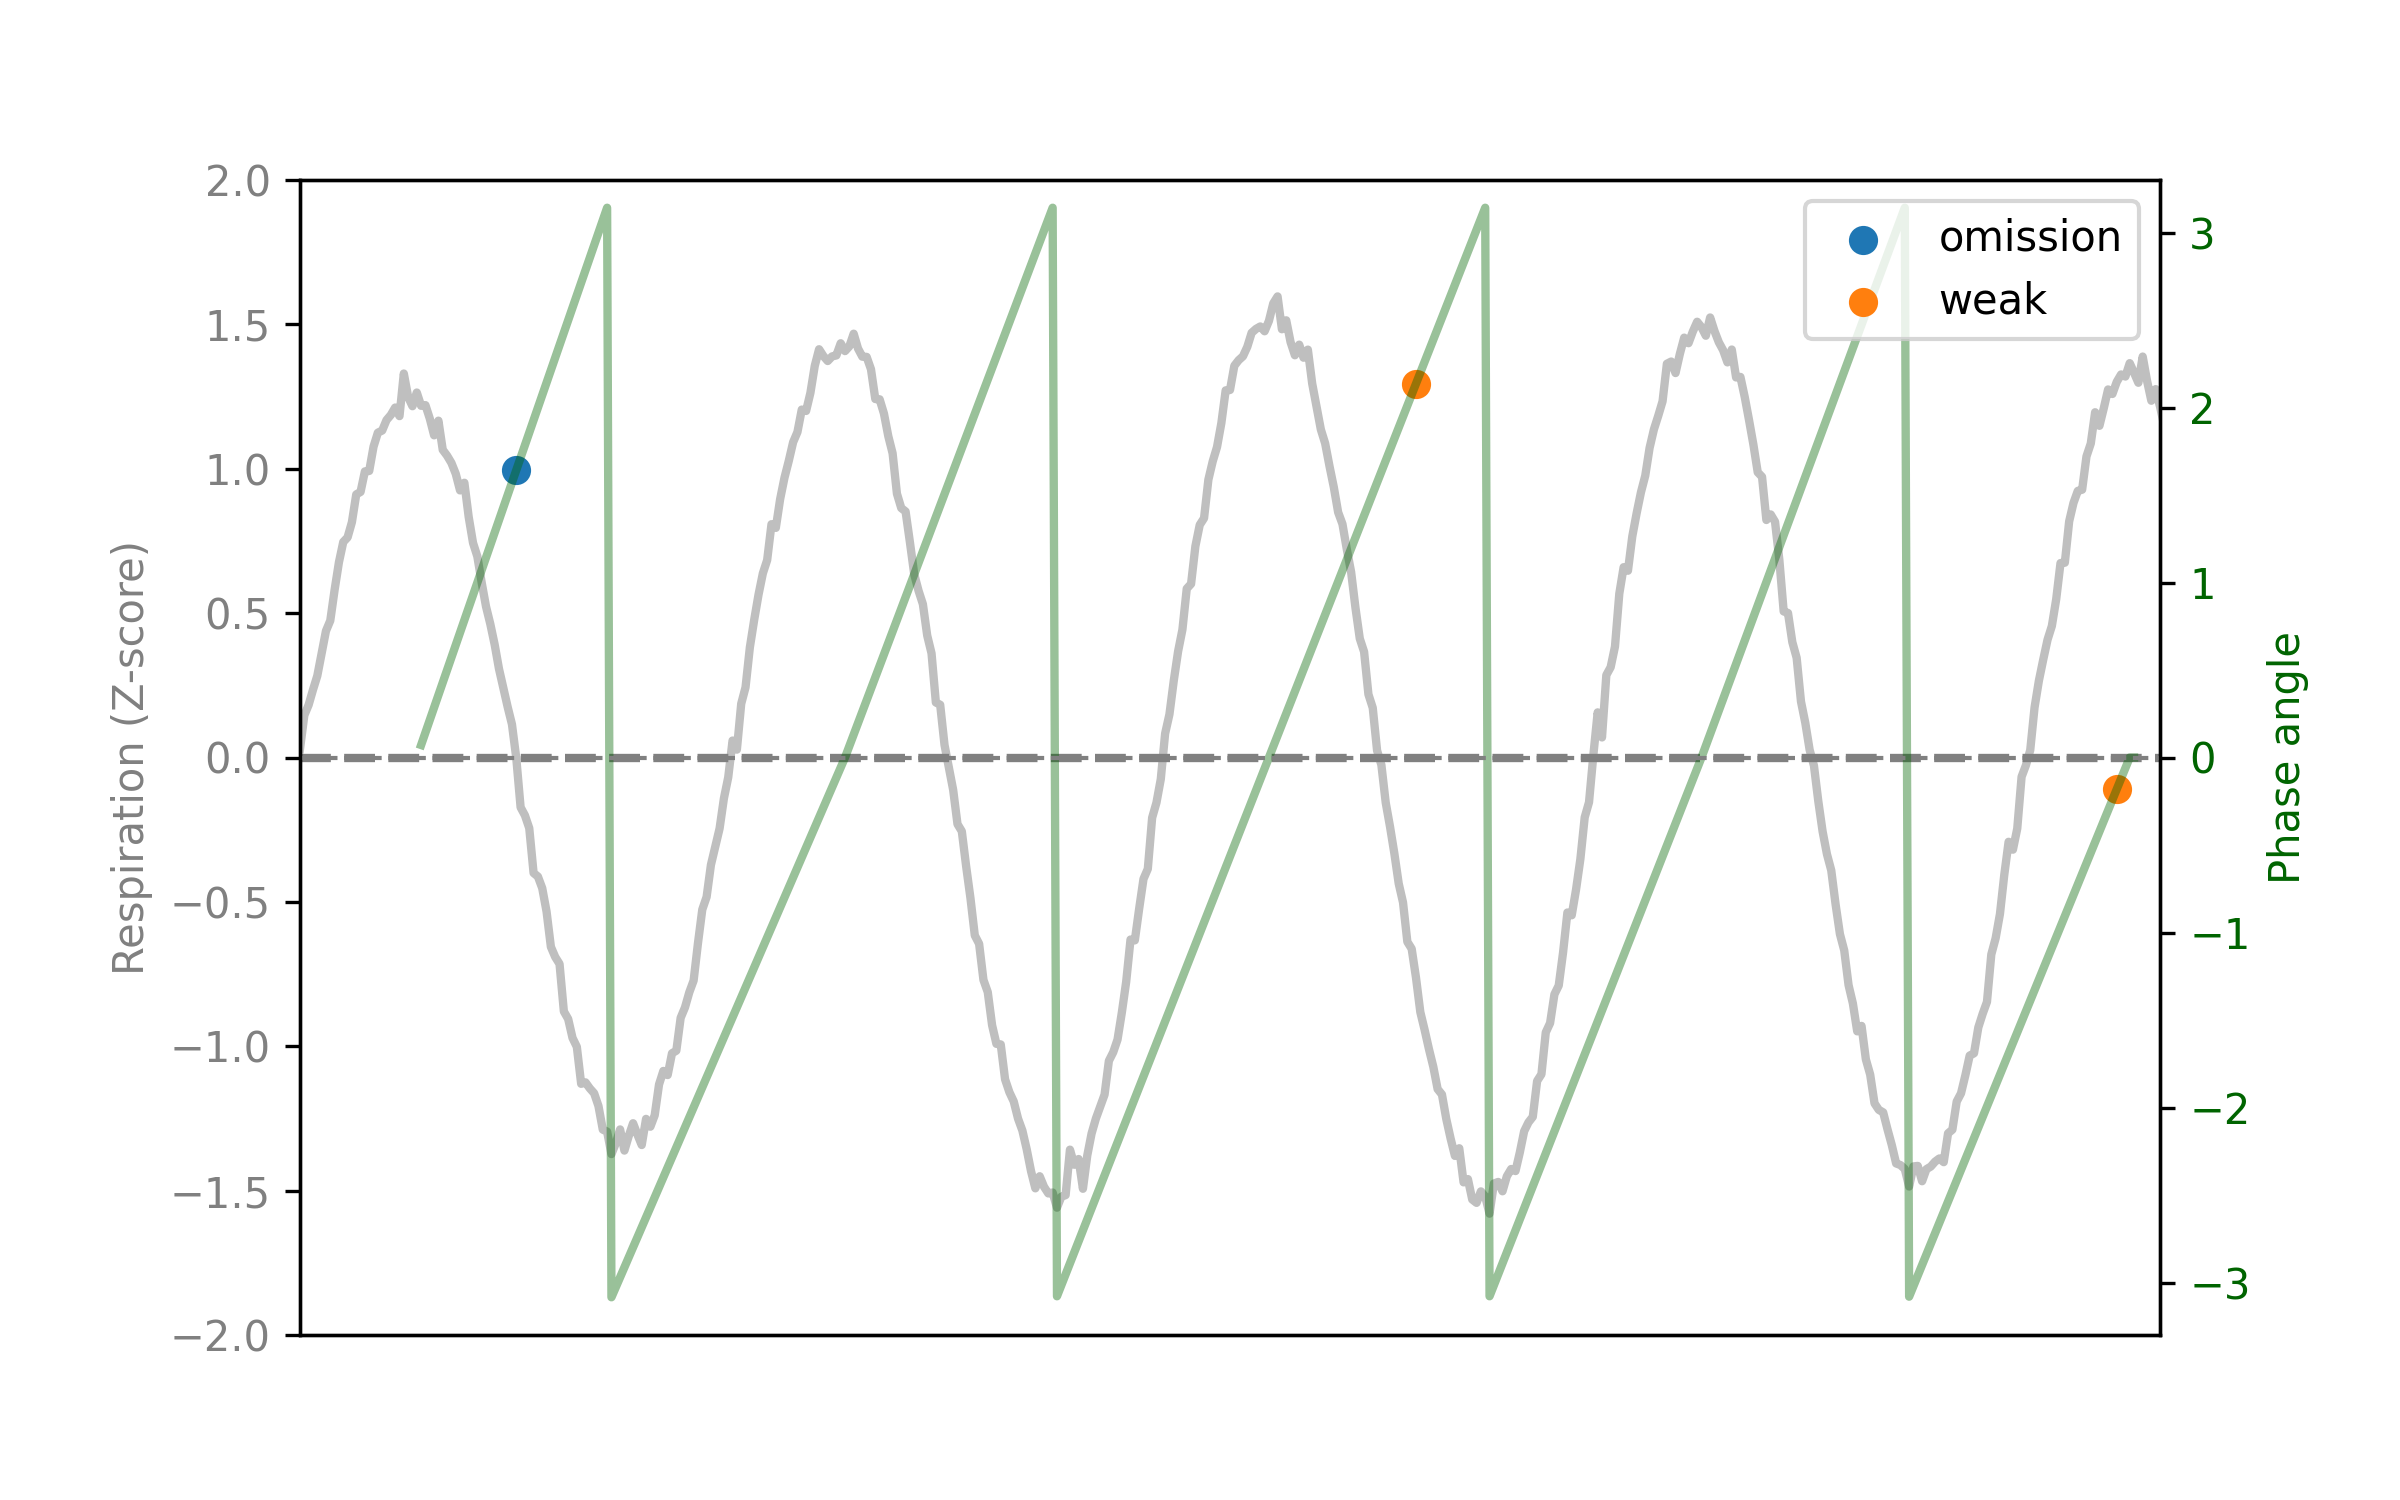
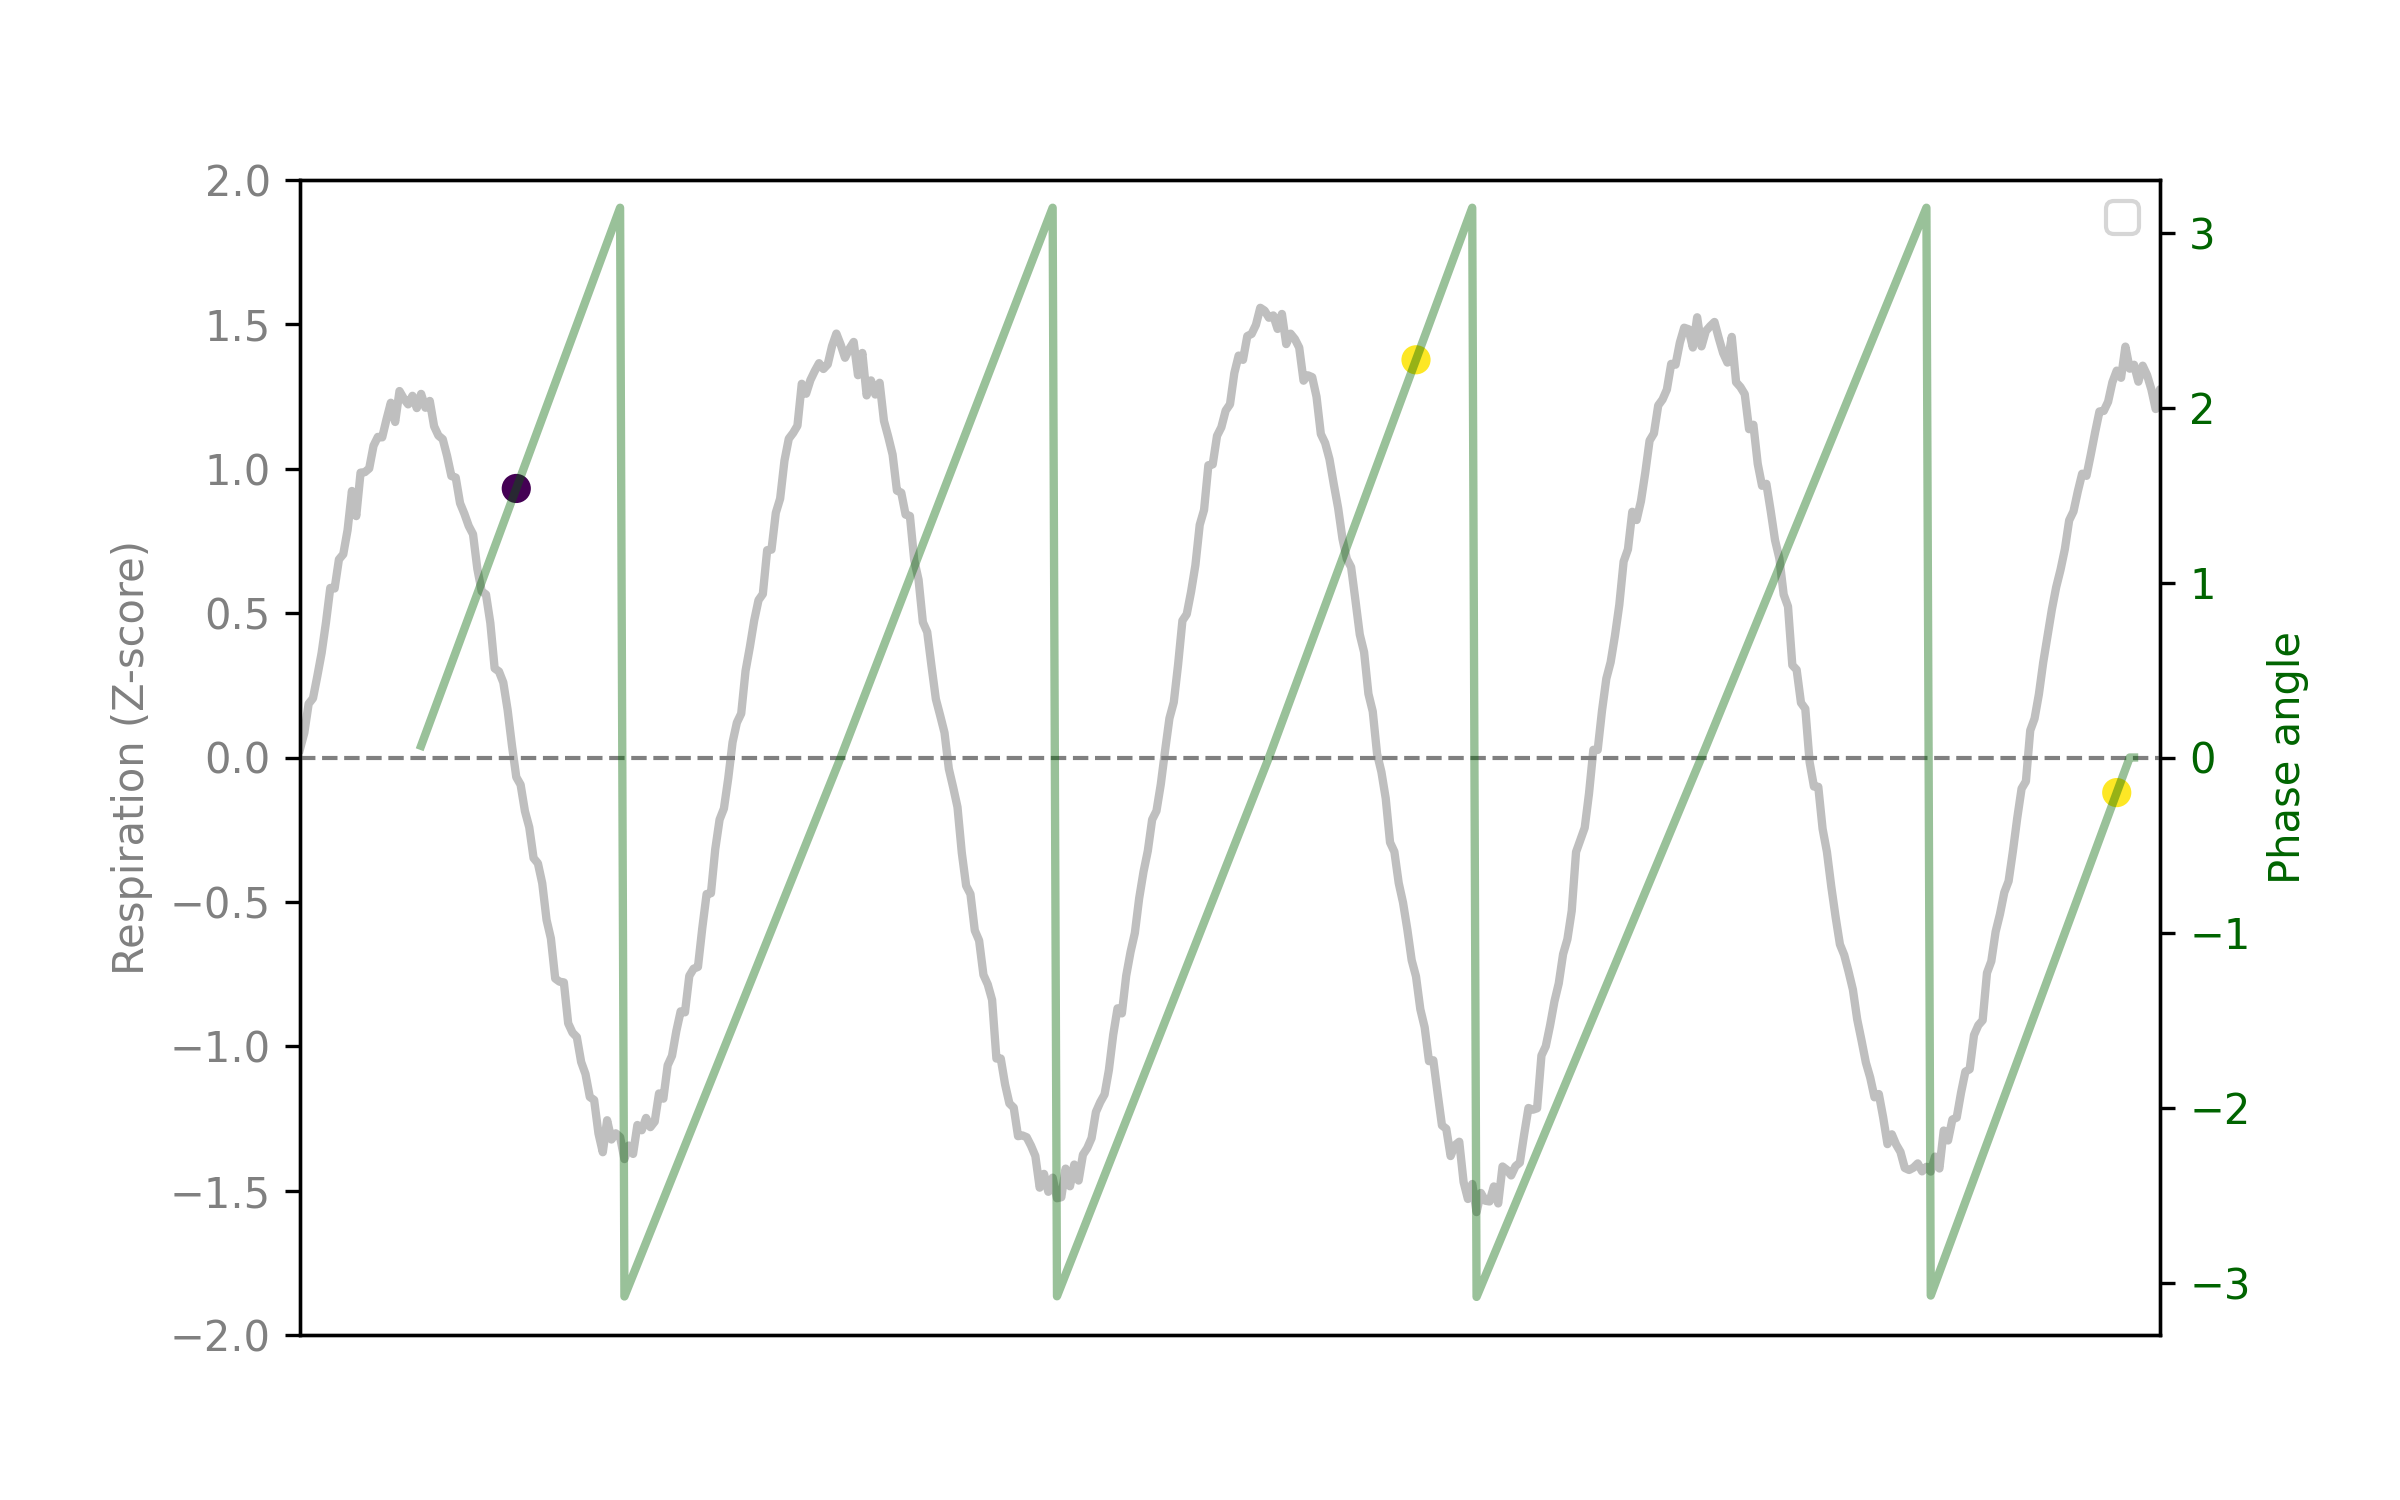
newest versions before pushing to hyades

diff --git a/src/master.py b/src/master.py
@@ -1,0 +1,58 @@
+"""
+
+"""
+
+from helper_functions import submit_job
+
+
+
+# TO DO: Determine which subjects do not have respiratory data recorded!
+recordings = [
+    dict(subject='0001', date='20210810_000000', mr_date='20191015_121553'),
+    dict(subject='0002', date='20210804_000000', mr_date='20191015_112257'),
+    dict(subject='0003', date='20210802_000000', mr_date='20210812_102146'),
+    dict(subject='0004', date='20210728_000000', mr_date='20210811_164949'),
+    dict(subject='0005', date='20210728_000000', mr_date='20210816_091907'),
+    dict(subject='0006', date='20210728_000000', mr_date='20210811_173642'), 
+    dict(subject='0007', date='20210728_000000', mr_date='20210812_105728'),
+    dict(subject='0008', date='20210730_000000', mr_date='20210812_081520'),
+    dict(subject='0009', date='20210730_000000', mr_date='20210812_141341'),
+    dict(subject='0010', date='20210730_000000', mr_date='20210812_094201'),
+    dict(subject='0011', date='20210730_000000', mr_date='20191015_104445'),
+    dict(subject='0012', date='20210802_000000', mr_date='20210812_145235'),
+    dict(subject='0013', date='20210802_000000', mr_date='20210811_084903'),
+    dict(subject='0014', date='20210802_000000', mr_date='20210812_164859'),
+    dict(subject='0015', date='20210804_000000', mr_date='20210811_133830'),
+    dict(subject='0016', date='20210804_000000', mr_date='20210812_153043'),
+    dict(subject='0017', date='20210805_000000', mr_date='20210820_123549'),
+    dict(subject='0018', date='20210805_000000', mr_date='20210811_113632'),
+    dict(subject='0019', date='20210805_000000', mr_date='20210811_101021'),
+    dict(subject='0020', date='20210806_000000', mr_date='20210812_085148'),
+    dict(subject='0021', date='20210806_000000', mr_date='20210811_145727'),
+    dict(subject='0022', date='20210806_000000', mr_date='20210811_141117'),
+    dict(subject='0023', date='20210809_000000', mr_date='20210812_112225'),
+    dict(subject='0024', date='20210809_000000', mr_date='20210812_125146'),
+    dict(subject='0026', date='20210810_000000', mr_date='20210811_120947'),
+    dict(subject='0027', date='20210810_000000', mr_date='20210811_105000'),
+    dict(subject='0028', date='20210817_000000', mr_date='20210820_111354'),
+    dict(subject='0029', date='20210817_000000', mr_date='20210820_103315'),
+    dict(subject='0030', date='20210817_000000', mr_date='20210820_085929'),
+    dict(subject='0031', date='20210825_000000', mr_date='20210820_094714')]
+
+
+
+functions = [
+    ## GENERAL
+    # # 'analysis_00_create_folders',
+    # # 'analysis_01_find_events',
+
+    ## 
+    ]
+
+
+
+#%% RUN ALL JOBS
+
+for function in functions:
+    for recording in recordings:
+        submit_job(recording, function, overwrite=False)

diff --git a/example_plots.py b/example_plots.py
@@ -1,5 +1,5 @@
 import numpy as np
-from utils import respiration as resp
+from utils import analysis_respiration_phase_angle as resp
 import matplotlib.pyplot as plt
 from pathlib import Path
 
@@ -26,10 +26,9 @@ def respiration_to_phase_angle(figpath):
 
     # Plot normalized respiratory timecourse on the primary y-axis
     ax1.plot(normalised_ts, lw=2, color="grey", alpha=0.5)
-    ax1.axhline(0, color="grey", ls="--", lw=2)
     ax1.set_xlim(0, 430)
     ax1.set_ylim(-2, 2)
-    ax1.set_ylabel("Respiration (Z-score)", color="grey")
+    ax1.set_ylabel("Respiration (Z-score)", color="grey", zorder=-2)
     ax1.tick_params(axis='y', labelcolor="grey")
     
     # Hide the x-axis labels and ticks
@@ -38,7 +37,7 @@ def respiration_to_phase_angle(figpath):
     # Create a secondary y-axis to plot the phase angle
     ax2 = ax1.twinx()
     ax2.plot(phase_angle, lw=2, color="darkgreen", alpha=0.4)
-    ax2.axhline(0, color="grey", ls="--", lw=1)
+    ax2.axhline(0, color="grey", ls="--", lw=1, zorder=-1)
     ax2.set_ylabel("Phase angle", color="darkgreen")
     ax2.set_ylim(-3.3, 3.3)
     ax2.tick_params(axis='y', labelcolor="darkgreen")
@@ -47,11 +46,9 @@ def respiration_to_phase_angle(figpath):
     events = [0, 1, 1]
     samples = [50, 258, 420]
 
-    for trigger, label in zip([0, 1], ["omission", "weak"]):
-        idx = [i for i in range(len(events)) if events[i] == trigger]
-        tmp_samples = [samples[i] for i in idx]
-        tmp_phase_angle = [phase_angle[samples[i]] for i in idx]
-        ax2.scatter(tmp_samples, tmp_phase_angle, label=label)
+    tmp_phase_angle = [phase_angle[i] for i in samples]
+    ax2.scatter(samples, tmp_phase_angle, c = events, zorder=1, alpha = 1)
+
 
     # Add legend to the phase angle plot
     ax2.legend(loc="upper right")

diff --git a/src/analysis_respiration_00_phase_angle.py b/src/analysis_respiration_00_phase_angle.py
@@ -39,8 +39,8 @@ def extract_phase_angle(resp_timeseries:np.array, widths = 4, figpath = None):
 
     # finding peaks and troughs
     peaks = signal.find_peaks_cwt(normalised_ts, widths = widths)
-
-    # old = peaks = signal.find_peaks(normalised_ts)[0] figure out what works best on data!!
+    # old way of doing it -> peaks = signal.find_peaks(normalised_ts)[0] figure out what works best on data!!
+    
     troughs = np.array([], dtype = int)
 
     for peak1, peak2 in zip(peaks, peaks[1:]):                  # finding the troughs -> the minimum between the peaks

diff --git a/README.md b/README.md
@@ -1,1 +1,4 @@
 # thesis_msc
+
+This repository holds the code used for the Master's thesis titled *Something something something* at Aarhus University (F2026).
+
